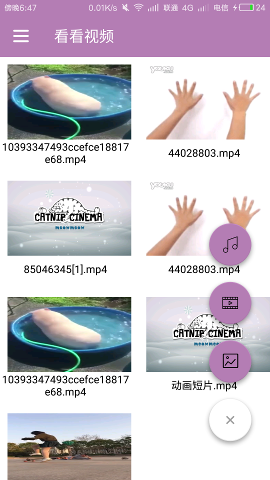
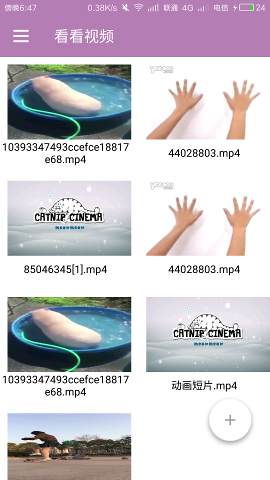
更改图片

Changed region(s): [[0.7704, 0.4375, 0.9481, 0.8125], [0.8296, 0.8438, 0.8593, 0.9062], [0.3259, 0.0, 0.3852, 0.0312]]

diff --git a/README.md b/README.md
@@ -13,8 +13,8 @@
 ![](https://github.com/xujingguo58/multiMediaplayer/blob/master/pic/scan.jpg)
 ![](https://github.com/xujingguo58/multiMediaplayer/blob/master/pic/playlist.jpg)
 ![](https://github.com/xujingguo58/multiMediaplayer/blob/master/pic/playing.jpg)
-![](https://github.com/xujingguo58/multiMediaplayer/blob/master/pic/floatbutton.png)
-![](https://github.com/xujingguo58/multiMediaplayer/blob/master/pic/music.png)
+![](https://github.com/xujingguo58/multiMediaplayer/blob/master/pic/float.png)
+![](https://github.com/xujingguo58/multiMediaplayer/blob/master/pic/video.png)
 ![](https://github.com/xujingguo58/multiMediaplayer/blob/master/pic/picture.png)
 
 
